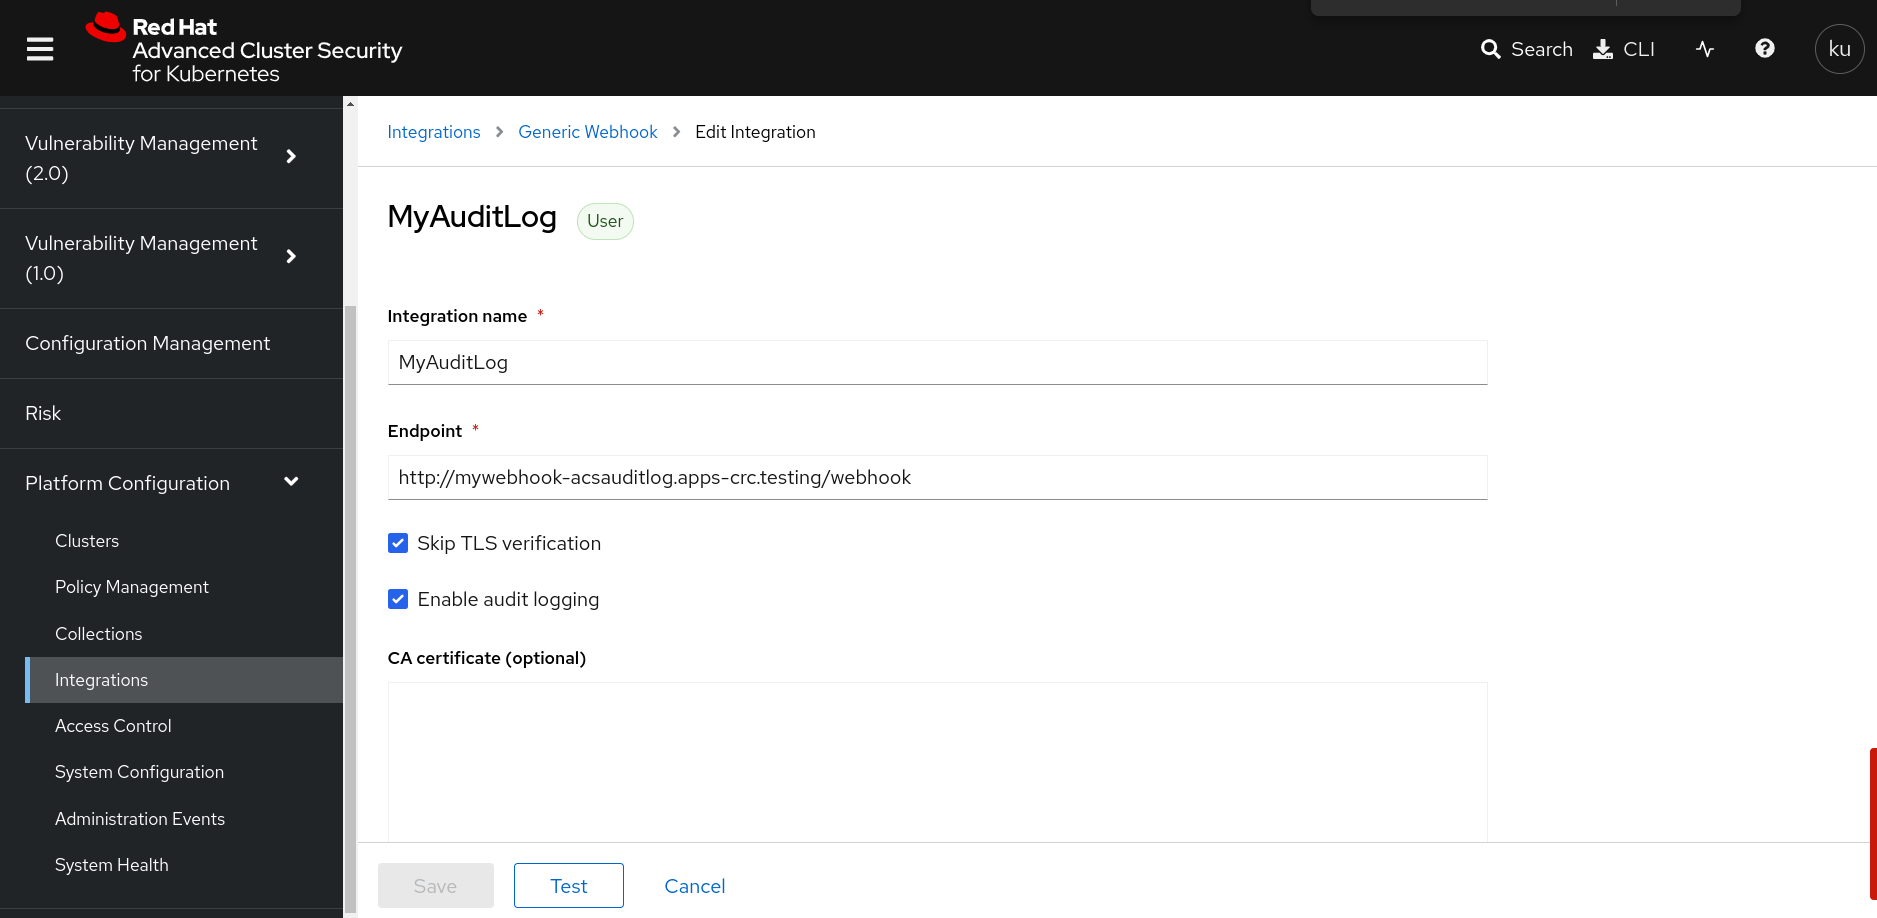
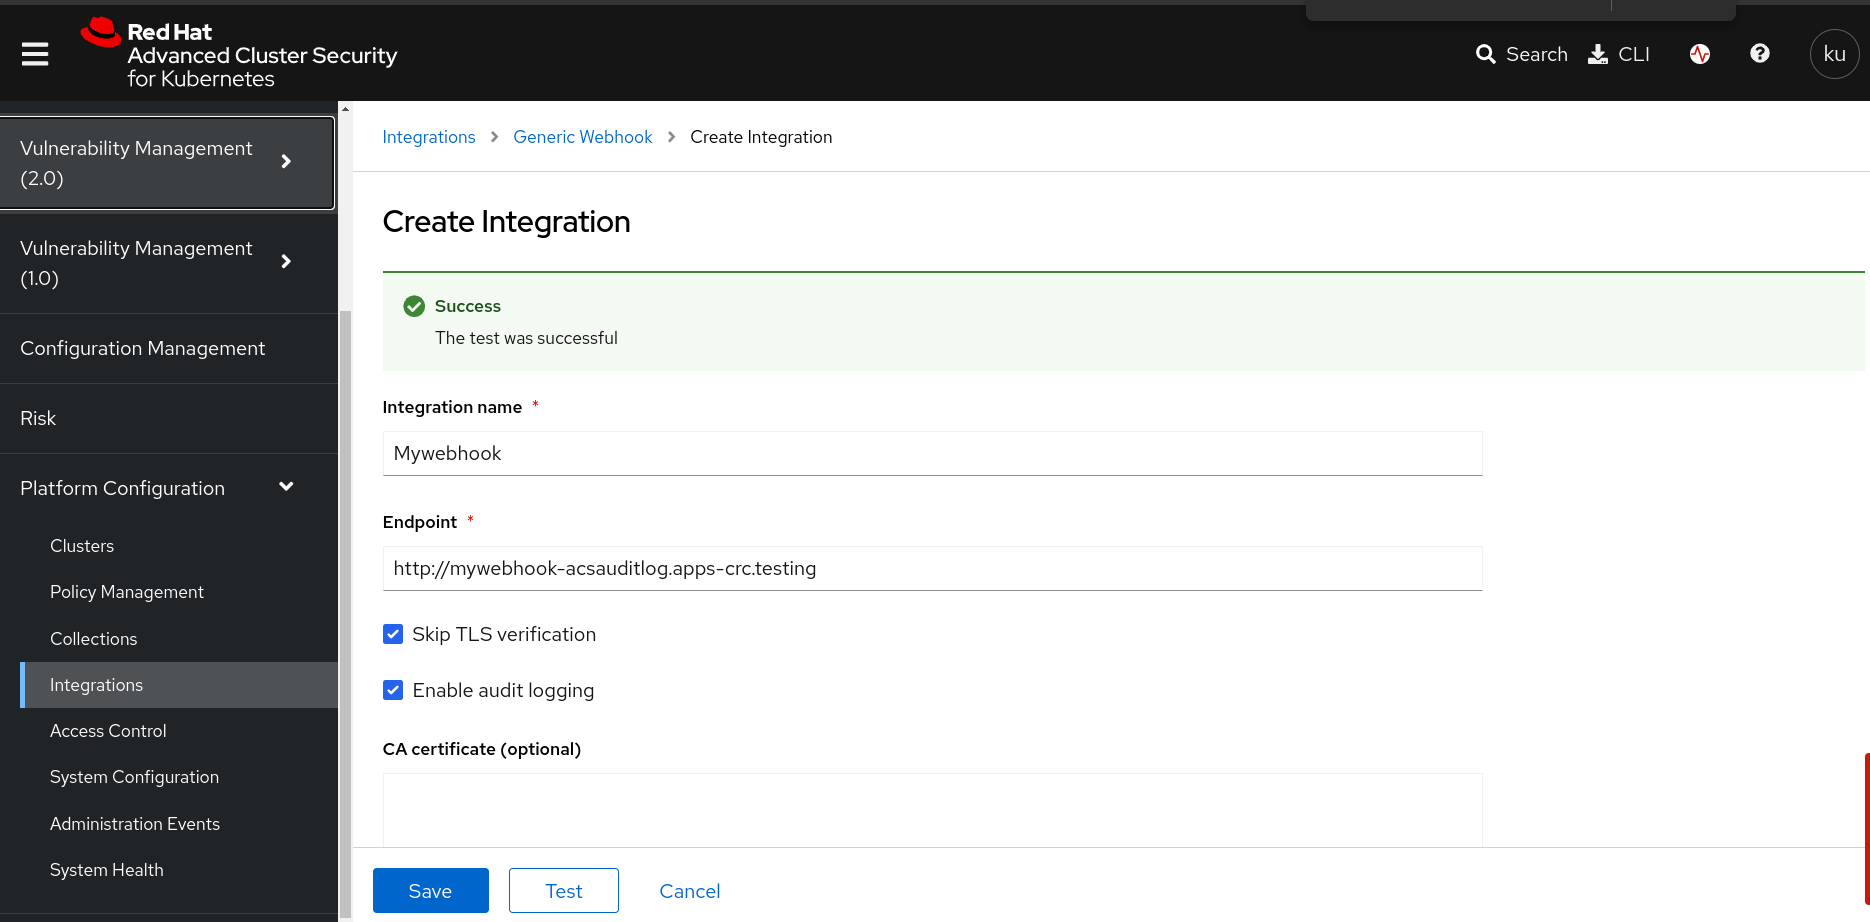
Removing the /webhook endpoint

diff --git a/README.md b/README.md
@@ -44,7 +44,7 @@ Enabling Audit Logging in ACS:
 * Log in to the RHACS portal.
 * Navigate to Platform Configuration → Integrations.
 * In the Notifier Integrations section, select Generic Webhook.
-* Fill in the required information, add "/webhook" at the end of the Webhook url).
+* Fill in the required information with the svc/mywebhook url.
 ![Generic WebHook Configuration in ACS](/images/genericwebhook.png)
 
 ## Viewing Audit Logs
